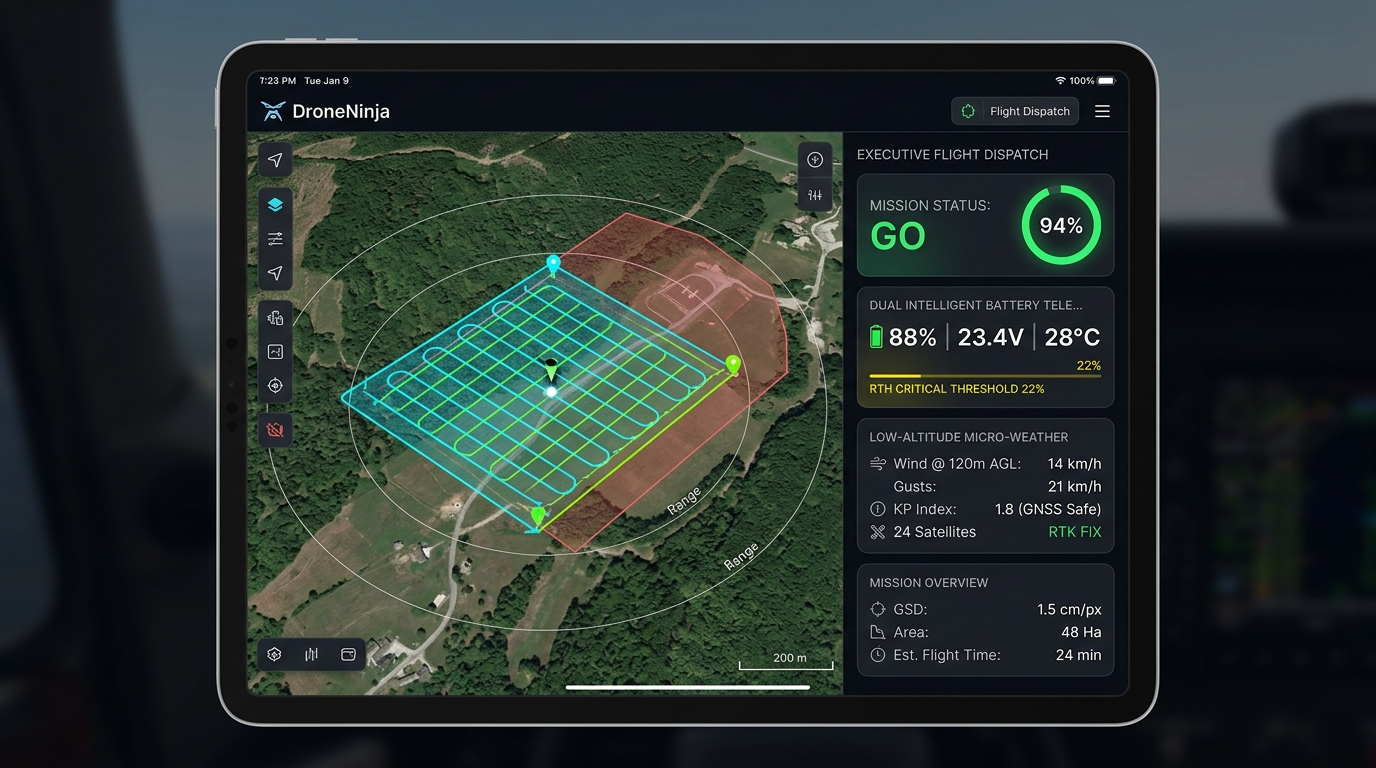
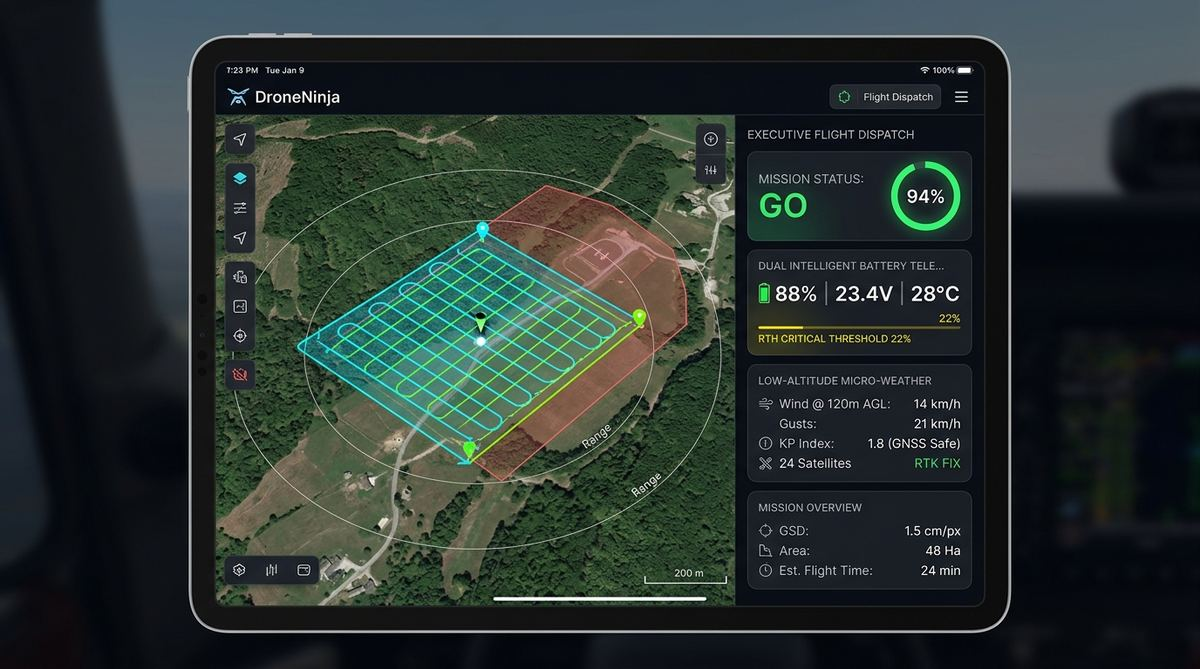
R80: Links HTTPS 4G, otimizacao imagens <90KB/30KB/200KB, lazy loading e aba Cidreira

diff --git a/index.html b/index.html
@@ -1398,7 +1398,7 @@ button, input, select, a { touch-action: manipulation; }
       <!-- QR Code PIX e Chave Copia e Cola -->
       <div class="bg-slate-950 p-2.5 rounded-xl border border-slate-800 text-center space-y-2">
         <div class="inline-block p-1.5 bg-white rounded-xl shadow-md">
-          <img src="https://api.qrserver.com/v1/create-qr-code/?size=110x110&data=00020126580014br.gov.bcb.pix0136dronehub-escrow-garantia-segura5204000053039865802BR" class="w-20 h-20" alt="QR Code PIX">
+          <img src="https://api.qrserver.com/v1/create-qr-code/?size=110x110&data=00020126580014br.gov.bcb.pix0136dronehub-escrow-garantia-segura5204000053039865802BR" class="w-20 h-20" alt="QR Code PIX" loading="lazy" decoding="async">
         </div>
         <div class="flex gap-1.5">
           <input type="text" readonly value="pix.garantia@dronehub.com.br" id="pixKeyInput" class="w-full bg-slate-900 border border-slate-800 text-slate-300 text-[10px] font-mono rounded-lg px-2 py-1.5 text-center">
@@ -1644,7 +1644,7 @@ button, input, select, a { touch-action: manipulation; }
       <!-- Cabeçalho do Modal -->
       <div class="flex items-center justify-between border-b border-slate-800 pb-2.5">
         <div class="flex items-center gap-2.5">
-          <img id="portPilotImg" src="" class="w-10 h-10 rounded-xl object-cover border border-cyan-400/50">
+          <img id="portPilotImg" src="" class="w-10 h-10 rounded-xl object-cover border border-cyan-400/50" loading="lazy" decoding="async">
           <div>
             <h3 class="text-xs font-bold text-white uppercase tracking-wider" id="portPilotName">Portfólio do Piloto</h3>
             <p class="text-[10px] text-cyan-400 font-mono" id="portPilotLocation">📍 Cidade - UF</p>
@@ -1670,7 +1670,7 @@ button, input, select, a { touch-action: manipulation; }
       <div id="portContent360" class="space-y-2.5">
         <div class="relative w-full aspect-video rounded-xl overflow-hidden border border-cyan-500/40 bg-slate-950 shadow-inner group">
           <img id="port360Image" src="https://images.unsplash.com/photo-1545324418-cc1a3fa10c00?w=1000&auto=format&fit=crop" 
-               class="w-full h-full object-cover transition-transform duration-700 ease-out" style="transform: scale(1.15) translateX(0px);">
+               class="w-full h-full object-cover transition-transform duration-700 ease-out" style="transform: scale(1.15) translateX(0px);" loading="lazy" decoding="async">
           
           <!-- Badge e Overlay 360° -->
           <div class="absolute top-2.5 left-2.5 bg-black/75 backdrop-blur-md px-2.5 py-1 rounded-lg border border-cyan-500/50 flex items-center gap-1.5 font-mono text-[10px] text-cyan-300 font-bold">
@@ -1694,7 +1694,7 @@ button, input, select, a { touch-action: manipulation; }
       <div id="portContentTimelapse" class="space-y-2.5 hidden">
         <div class="relative w-full aspect-video rounded-xl overflow-hidden border border-amber-500/40 bg-slate-950 shadow-inner">
           <img id="portTimelapseImg" src="timelapse_fase1.svg" 
-               class="w-full h-full object-cover transition-opacity duration-300">
+               class="w-full h-full object-cover transition-opacity duration-300" loading="lazy" decoding="async">
 
           <div class="absolute top-2.5 left-2.5 bg-black/75 backdrop-blur-md px-2.5 py-1 rounded-lg border border-amber-500/50 flex items-center gap-1.5 font-mono text-[10px] text-amber-300 font-bold">
             <span>⏱ TIMELAPSE DE CONSTRUÇÃO</span>
@@ -1715,10 +1715,10 @@ button, input, select, a { touch-action: manipulation; }
       <!-- Conteúdo da Aba Fotos Aéreas -->
       <div id="portContentFotos" class="space-y-2.5 hidden">
         <div class="grid grid-cols-2 gap-2">
-          <img src="https://images.unsplash.com/photo-1508614589041-895b88991e3e?w=500&auto=format&fit=crop" class="w-full h-24 object-cover rounded-xl border border-slate-800">
-          <img src="https://images.unsplash.com/photo-1473968512647-3e447244af8f?w=500&auto=format&fit=crop" class="w-full h-24 object-cover rounded-xl border border-slate-800">
-          <img src="https://images.unsplash.com/photo-1486406146926-c627a92ad1ab?w=500&auto=format&fit=crop" class="w-full h-24 object-cover rounded-xl border border-slate-800">
-          <img src="https://images.unsplash.com/photo-1500382017468-9049fed747ef?w=500&auto=format&fit=crop" class="w-full h-24 object-cover rounded-xl border border-slate-800">
+          <img src="https://images.unsplash.com/photo-1508614589041-895b88991e3e?w=500&auto=format&fit=crop" class="w-full h-24 object-cover rounded-xl border border-slate-800" loading="lazy" decoding="async">
+          <img src="https://images.unsplash.com/photo-1473968512647-3e447244af8f?w=500&auto=format&fit=crop" class="w-full h-24 object-cover rounded-xl border border-slate-800" loading="lazy" decoding="async">
+          <img src="https://images.unsplash.com/photo-1486406146926-c627a92ad1ab?w=500&auto=format&fit=crop" class="w-full h-24 object-cover rounded-xl border border-slate-800" loading="lazy" decoding="async">
+          <img src="https://images.unsplash.com/photo-1500382017468-9049fed747ef?w=500&auto=format&fit=crop" class="w-full h-24 object-cover rounded-xl border border-slate-800" loading="lazy" decoding="async">
         </div>
         <p class="text-[11px] text-slate-300 leading-relaxed">
           Fotografias ortorretificadas, inspeções termográficas e imagens publicitárias em alta resolução captadas com sensores full-frame e lentes prime.
@@ -1981,7 +1981,7 @@ function renderPilots(data) {
   container.innerHTML = data.map(p => `
     <div class="card p-3.5 space-y-3">
       <div class="flex items-start gap-3">
-        <img src="${p.foto}" alt="${p.nome}" class="w-12 h-12 rounded-2xl object-cover border border-cyan-500/40 shadow-md">
+        <img src="${p.foto}" alt="${p.nome}" class="w-12 h-12 rounded-2xl object-cover border border-cyan-500/40 shadow-md" loading="lazy" decoding="async">
         <div class="flex-1 min-w-0">
           <div class="flex items-center justify-between">
             <h4 class="text-sm font-bold text-white truncate">${p.nome}</h4>

diff --git a/marketplace_app.html b/marketplace_app.html
@@ -1068,7 +1068,7 @@ button, input, select, a { touch-action: manipulation; }
       <!-- QR Code PIX e Chave Copia e Cola -->
       <div class="bg-slate-950 p-3 rounded-xl border border-slate-800 text-center space-y-2">
         <div class="inline-block p-2 bg-white rounded-xl shadow-md">
-          <img src="https://api.qrserver.com/v1/create-qr-code/?size=110x110&data=00020126580014br.gov.bcb.pix0136dronehub-escrow-garantia-segura5204000053039865802BR" class="w-24 h-24" alt="QR Code PIX">
+          <img src="https://api.qrserver.com/v1/create-qr-code/?size=110x110&data=00020126580014br.gov.bcb.pix0136dronehub-escrow-garantia-segura5204000053039865802BR" class="w-24 h-24" alt="QR Code PIX" loading="lazy" decoding="async">
         </div>
         <p class="text-[10px] text-slate-400">Escaneie com o app do seu banco ou use a chave abaixo:</p>
         <div class="flex gap-1.5">
@@ -1315,7 +1315,7 @@ button, input, select, a { touch-action: manipulation; }
       <!-- Cabeçalho do Modal -->
       <div class="flex items-center justify-between border-b border-slate-800 pb-2.5">
         <div class="flex items-center gap-2.5">
-          <img id="portPilotImg" src="" class="w-10 h-10 rounded-xl object-cover border border-cyan-400/50">
+          <img id="portPilotImg" src="" class="w-10 h-10 rounded-xl object-cover border border-cyan-400/50" loading="lazy" decoding="async">
           <div>
             <h3 class="text-xs font-bold text-white uppercase tracking-wider" id="portPilotName">Portfólio do Piloto</h3>
             <p class="text-[10px] text-cyan-400 font-mono" id="portPilotLocation">📍 Cidade - UF</p>
@@ -1341,7 +1341,7 @@ button, input, select, a { touch-action: manipulation; }
       <div id="portContent360" class="space-y-2.5">
         <div class="relative w-full aspect-video rounded-xl overflow-hidden border border-cyan-500/40 bg-slate-950 shadow-inner group">
           <img id="port360Image" src="https://images.unsplash.com/photo-1545324418-cc1a3fa10c00?w=1000&auto=format&fit=crop" 
-               class="w-full h-full object-cover transition-transform duration-700 ease-out" style="transform: scale(1.15) translateX(0px);">
+               class="w-full h-full object-cover transition-transform duration-700 ease-out" style="transform: scale(1.15) translateX(0px);" loading="lazy" decoding="async">
           
           <!-- Badge e Overlay 360° -->
           <div class="absolute top-2.5 left-2.5 bg-black/75 backdrop-blur-md px-2.5 py-1 rounded-lg border border-cyan-500/50 flex items-center gap-1.5 font-mono text-[10px] text-cyan-300 font-bold">
@@ -1365,7 +1365,7 @@ button, input, select, a { touch-action: manipulation; }
       <div id="portContentTimelapse" class="space-y-2.5 hidden">
         <div class="relative w-full aspect-video rounded-xl overflow-hidden border border-amber-500/40 bg-slate-950 shadow-inner">
           <img id="portTimelapseImg" src="https://images.unsplash.com/photo-1541888946425-d0fbb186156f?w=1000&auto=format&fit=crop" 
-               class="w-full h-full object-cover transition-opacity duration-300">
+               class="w-full h-full object-cover transition-opacity duration-300" loading="lazy" decoding="async">
 
           <div class="absolute top-2.5 left-2.5 bg-black/75 backdrop-blur-md px-2.5 py-1 rounded-lg border border-amber-500/50 flex items-center gap-1.5 font-mono text-[10px] text-amber-300 font-bold">
             <span>⏱ TIMELAPSE DE CONSTRUÇÃO</span>
@@ -1386,10 +1386,10 @@ button, input, select, a { touch-action: manipulation; }
       <!-- Conteúdo da Aba Fotos Aéreas -->
       <div id="portContentFotos" class="space-y-2.5 hidden">
         <div class="grid grid-cols-2 gap-2">
-          <img src="https://images.unsplash.com/photo-1508614589041-895b88991e3e?w=500&auto=format&fit=crop" class="w-full h-24 object-cover rounded-xl border border-slate-800">
-          <img src="https://images.unsplash.com/photo-1473968512647-3e447244af8f?w=500&auto=format&fit=crop" class="w-full h-24 object-cover rounded-xl border border-slate-800">
-          <img src="https://images.unsplash.com/photo-1486406146926-c627a92ad1ab?w=500&auto=format&fit=crop" class="w-full h-24 object-cover rounded-xl border border-slate-800">
-          <img src="https://images.unsplash.com/photo-1500382017468-9049fed747ef?w=500&auto=format&fit=crop" class="w-full h-24 object-cover rounded-xl border border-slate-800">
+          <img src="https://images.unsplash.com/photo-1508614589041-895b88991e3e?w=500&auto=format&fit=crop" class="w-full h-24 object-cover rounded-xl border border-slate-800" loading="lazy" decoding="async">
+          <img src="https://images.unsplash.com/photo-1473968512647-3e447244af8f?w=500&auto=format&fit=crop" class="w-full h-24 object-cover rounded-xl border border-slate-800" loading="lazy" decoding="async">
+          <img src="https://images.unsplash.com/photo-1486406146926-c627a92ad1ab?w=500&auto=format&fit=crop" class="w-full h-24 object-cover rounded-xl border border-slate-800" loading="lazy" decoding="async">
+          <img src="https://images.unsplash.com/photo-1500382017468-9049fed747ef?w=500&auto=format&fit=crop" class="w-full h-24 object-cover rounded-xl border border-slate-800" loading="lazy" decoding="async">
         </div>
         <p class="text-[11px] text-slate-300 leading-relaxed">
           Fotografias ortorretificadas, inspeções termográficas e imagens publicitárias em alta resolução captadas com sensores full-frame e lentes prime.
@@ -1652,7 +1652,7 @@ function renderPilots(data) {
   container.innerHTML = data.map(p => `
     <div class="card p-3.5 space-y-3">
       <div class="flex items-start gap-3">
-        <img src="${p.foto}" alt="${p.nome}" class="w-12 h-12 rounded-2xl object-cover border border-cyan-500/40 shadow-md">
+        <img src="${p.foto}" alt="${p.nome}" class="w-12 h-12 rounded-2xl object-cover border border-cyan-500/40 shadow-md" loading="lazy" decoding="async">
         <div class="flex-1 min-w-0">
           <div class="flex items-center justify-between">
             <h4 class="text-sm font-bold text-white truncate">${p.nome}</h4>
